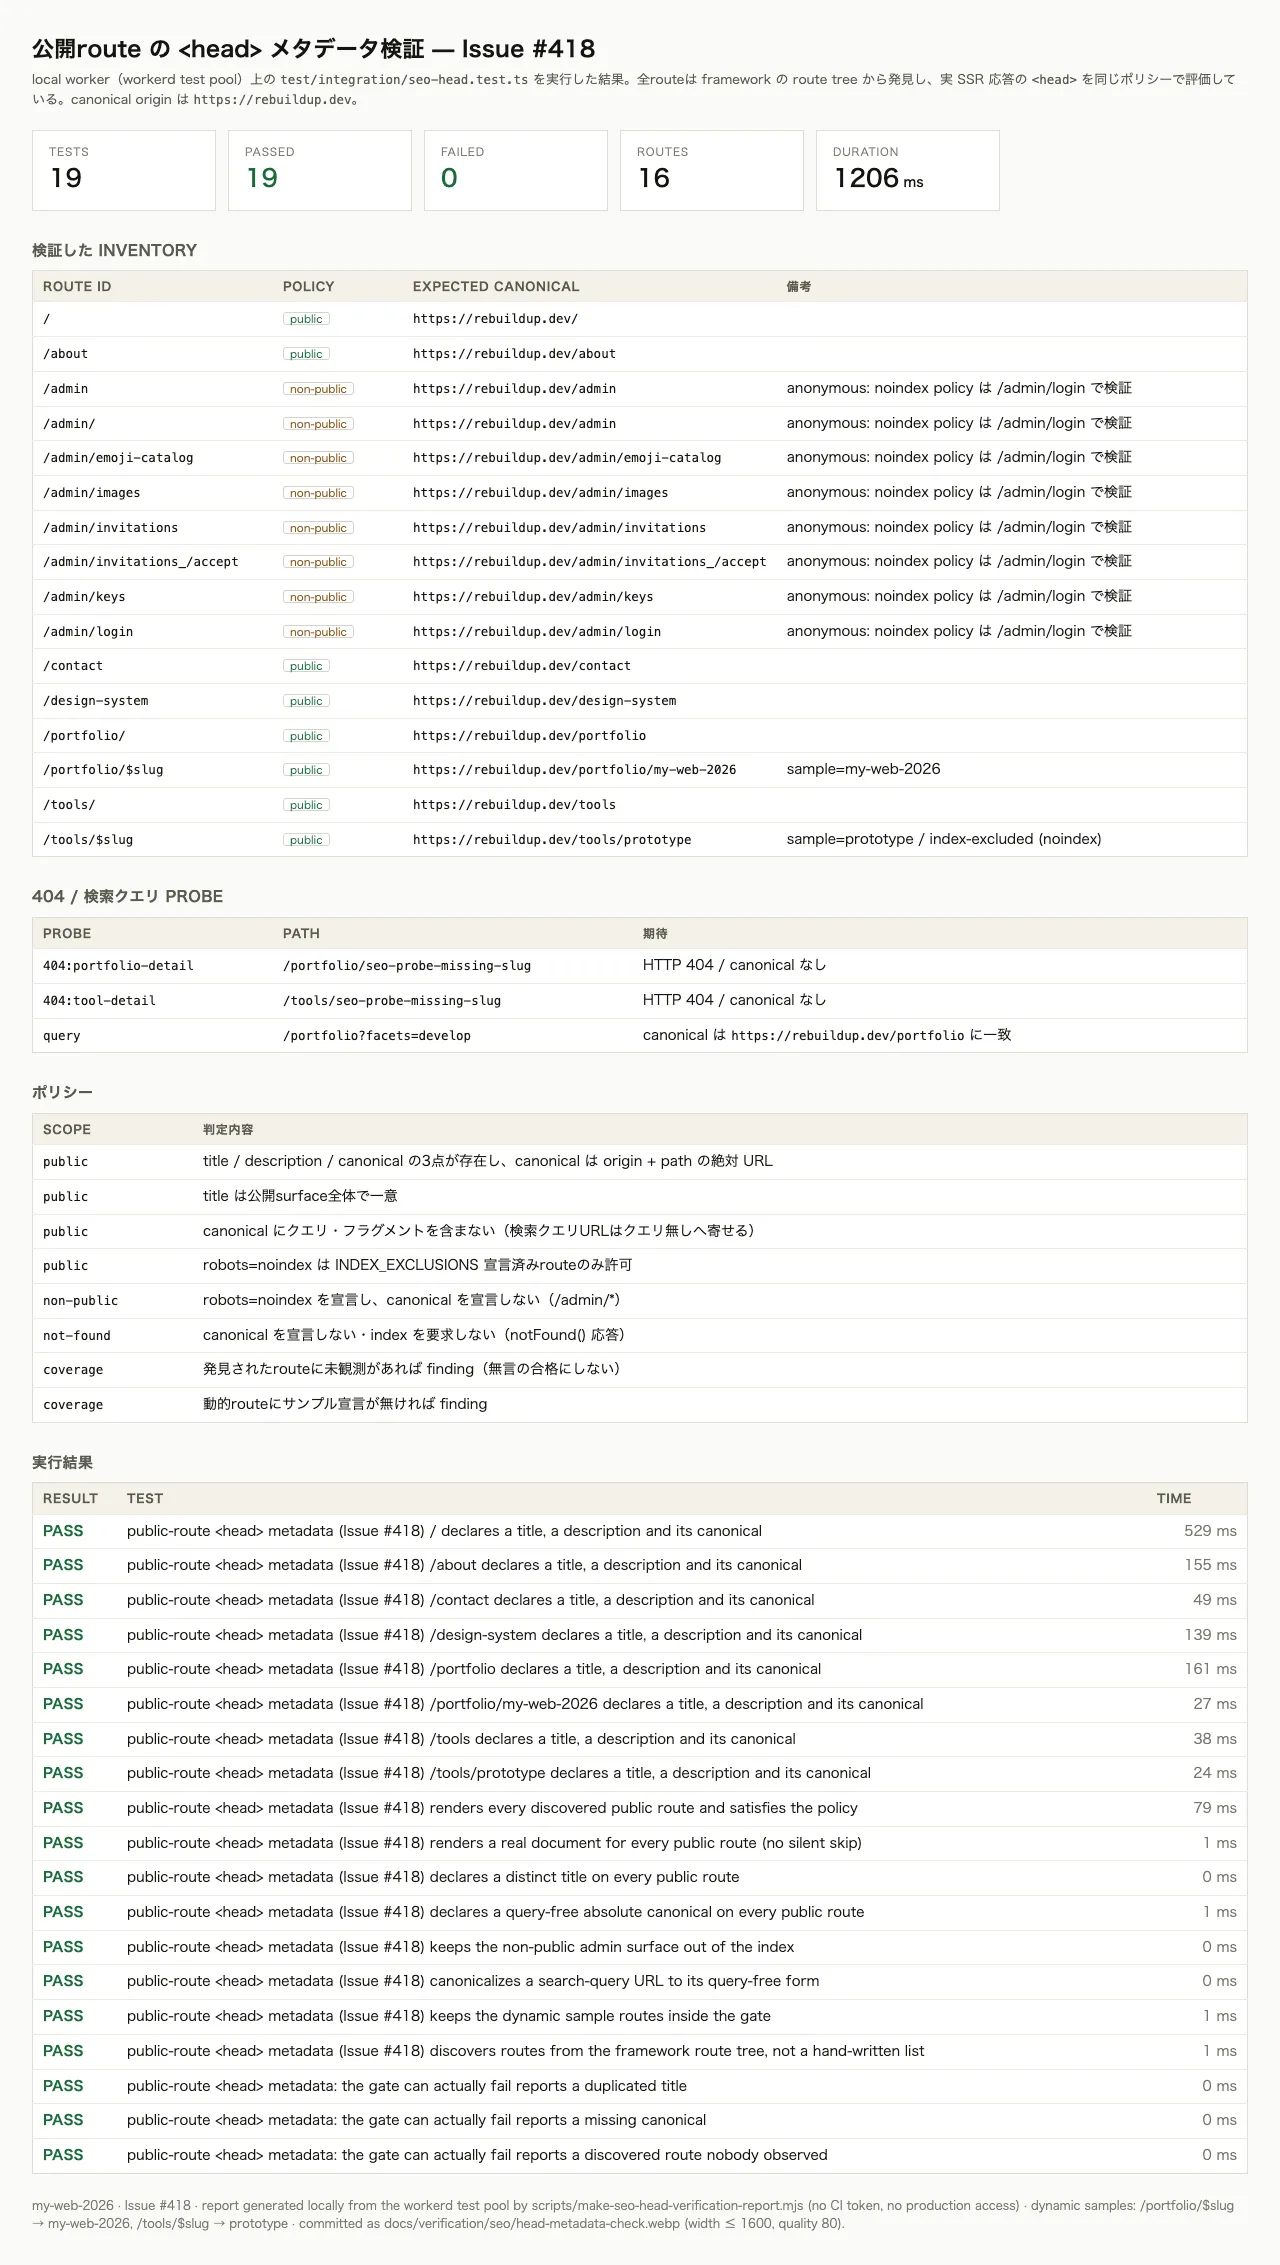
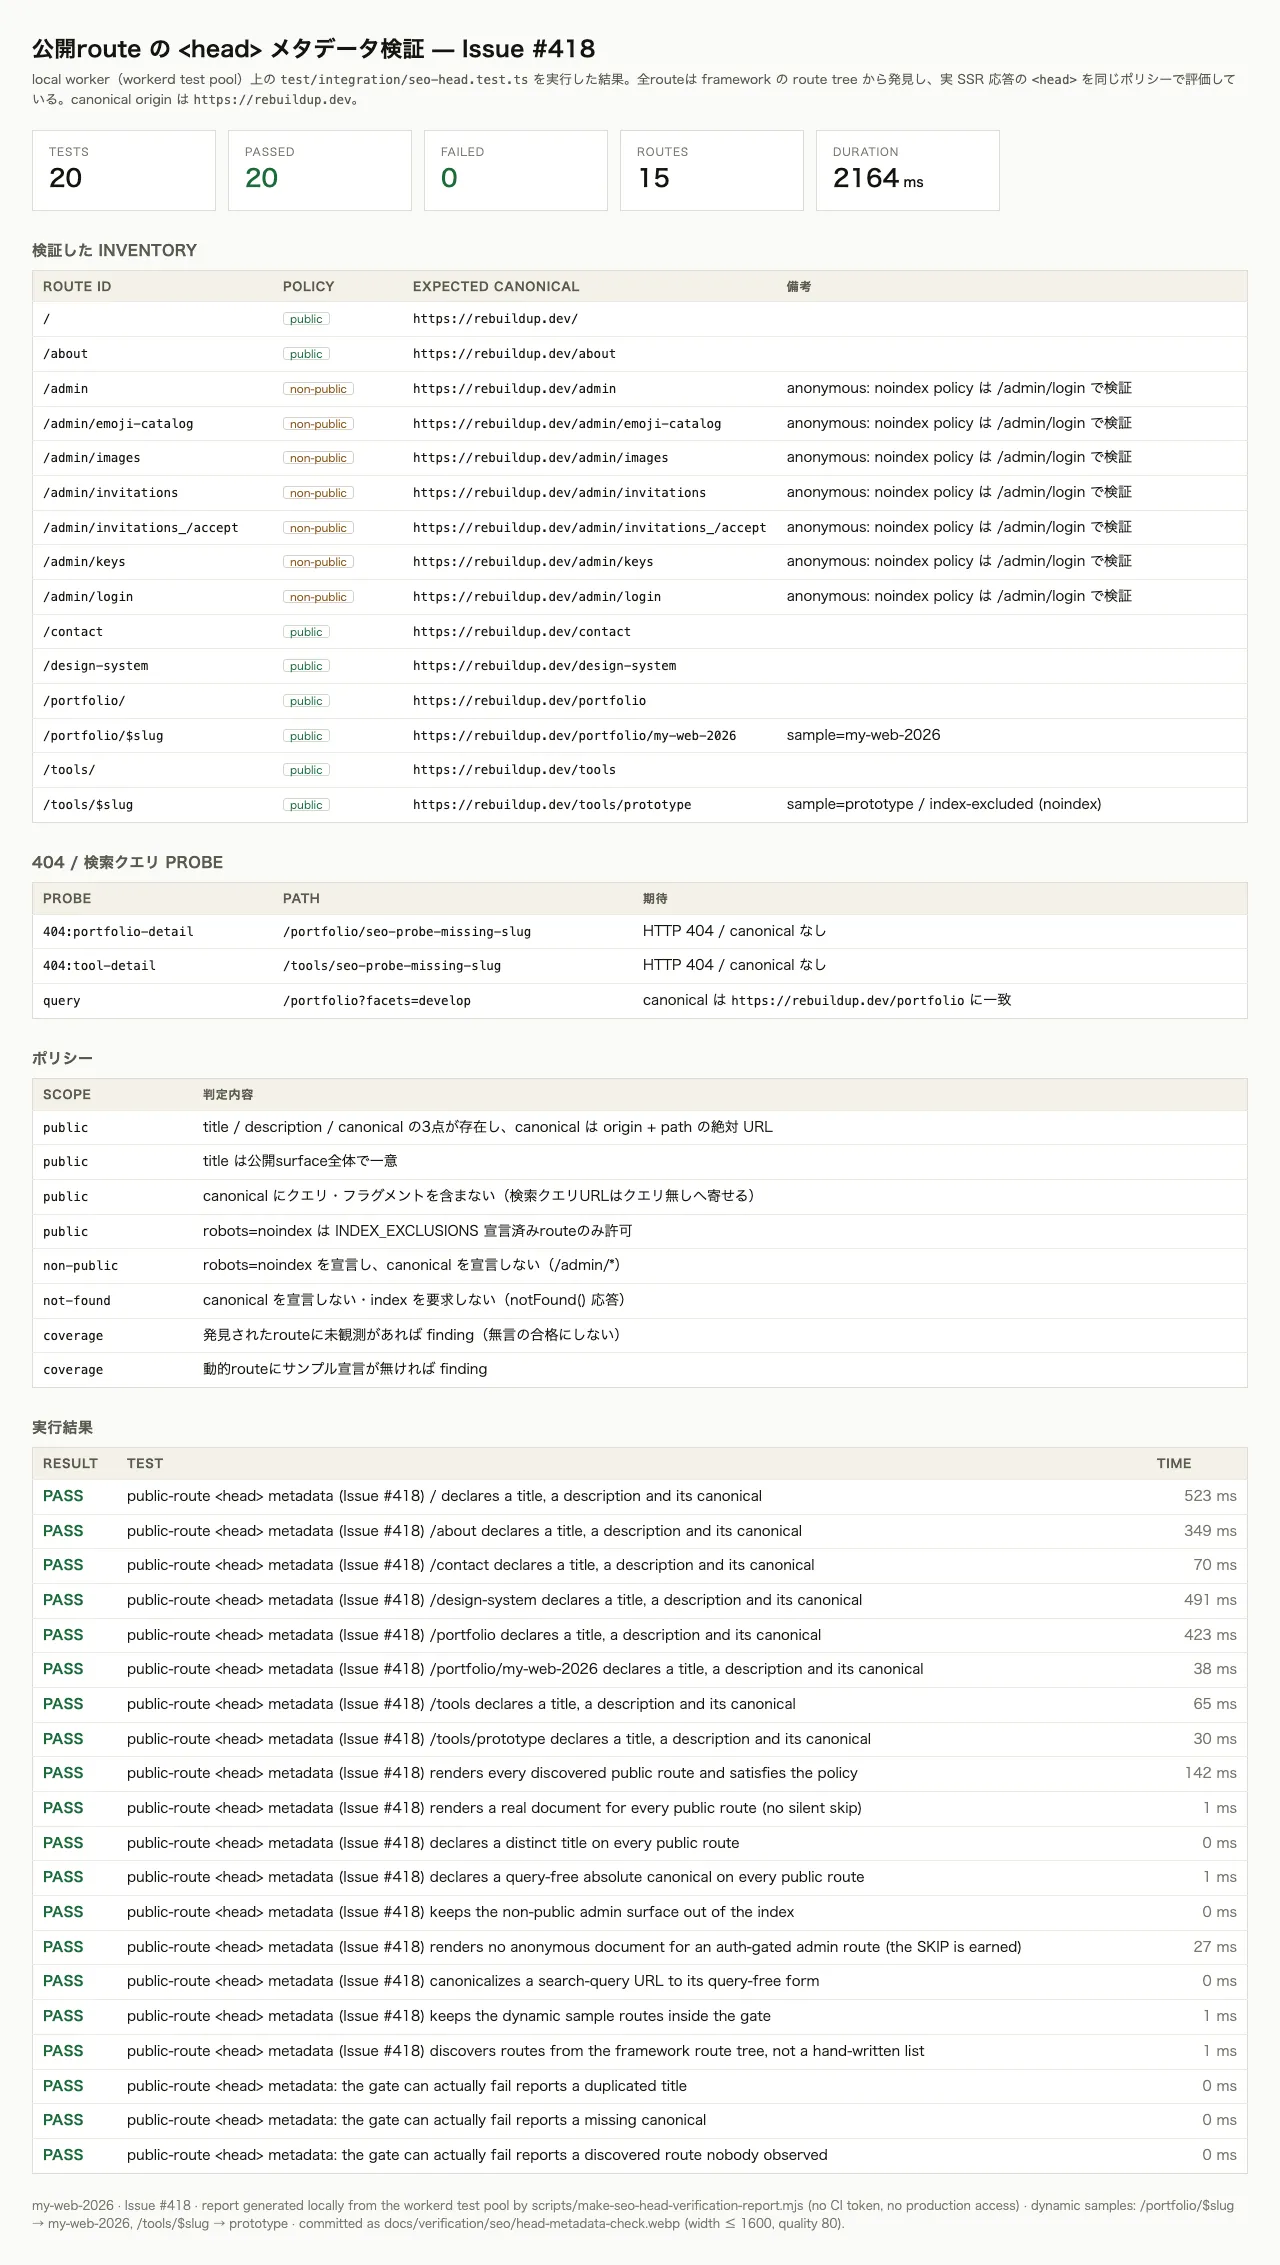
fix(seo): fail the head gate on an unfetched route or probe (#418)
A 404 probe whose request never completed was reported as PASS: the
not-found branch read `status !== null && status !== 404`, so a fetch
error short-circuited the only status check the row had, and the text
report omitted the `status` line entirely. An operator running
`--live` against an origin where only the two 404 probes fail to
resolve read two green "the 404 policy is fine" rows that were never
tested.

- `evaluateObservation` now reports an absent status on a not-found
  probe as `not-found.not-404` ("received no response"), so a probe
  that could not be fetched is a FAIL row, not a silent pass.
- A request that errored is `observation.request-failed` on EVERY
  surface, evaluated by the engine instead of being attached to the
  observation and then overwritten by the per-row evaluator (that
  attachment was dead code, and it misattributed a network error as
  three metadata defects). The no-op re-scan loop in `main()` is
  removed, so the row verdicts, the findings list and the exit code
  are one list by construction.
- `renderTextReport` states `(not fetched)` instead of dropping the
  status line, matching the HTML report.
- The inventory keeps one entry per normalized URL: an index route
  and the layout route beside it (`/admin/` + `/admin`) answer the
  same document, so both were listed and checked twice.
- `summarizeHead` documents — and the unit tests pin — that links are
  flat-mapped root-first by the router while meta dedupes
[…]

diff --git a/test/integration/seo-head.test.ts b/test/integration/seo-head.test.ts
@@ -271,12 +271,15 @@ const inventory = buildInventory(
 /**
  * Every discovered route, observed.
  *
- * The admin children other than `/admin/login` answer 307 for an
- * anonymous request — there is no document to evaluate — so they are
- * observed as explicitly SKIPPED rows. They are still in the
- * inventory, so a route disappearing from the admin surface is still
- * a discovery event, and their noindex policy is asserted through
- * the layout head every admin child inherits.
+ * The admin children other than `/admin/login` render no document for
+ * an anonymous request — the auth gate answers 307, and
+ * `/admin/invitations/accept` rejects a token-less request before
+ * rendering — so they are observed as explicitly SKIPPED rows. They
+ * are still in the inventory, so a route disappearing from the admin
+ * surface is still a discovery event, and their noindex policy is
+ * asserted through the layout head every admin child inherits. The
+ * assumption that earns each SKIP is asserted by the case "renders no
+ * anonymous document for an auth-gated admin route".
  */
 async function observeInventory(): Promise<Observed[]> {
 	const observations: Observed[] = [];
@@ -291,7 +294,7 @@ async function observeInventory(): Promise<Observed[]> {
 				tags: [],
 				head: summarizeHead([]),
 				skipped: true,
-				note: `anonymous request is auth-gated; the noindex policy is asserted on ${NON_PUBLIC_SAMPLE_PATH}`,
+				note: `anonymous request renders no admin document (auth-gated, or rejected before rendering); the noindex policy is asserted on ${NON_PUBLIC_SAMPLE_PATH}`,
 			});
 			continue;
 		}
@@ -346,7 +349,6 @@ async function observeInventory(): Promise<Observed[]> {
 }
 
 const PUBLIC_ROUTES = inventory.filter((entry) => entry.kind === 'public');
-const OBSERVED_TITLES = new Map<string, string[]>();
 
 describe('public-route <head> metadata (Issue #418)', () => {
 	// One case per discovered public route. A route-level failure then
@@ -360,12 +362,10 @@ describe('public-route <head> metadata (Issue #418)', () => {
 			expect(head.title, `${entry.path} title`).toBeTruthy();
 			expect(head.description, `${entry.path} description`).toBeTruthy();
 			expect(head.canonical, `${entry.path} canonical`).toBe(entry.expectedCanonical);
-
-			// Titles are unique across the public surface. Recorded here
-			// (and asserted in aggregate below) so a duplicate is
-			// reported against both routes, not just the later one.
-			const key = (head.title ?? '').toLowerCase();
-			OBSERVED_TITLES.set(key, [...(OBSERVED_TITLES.get(key) ?? []), entry.path]);
+			// Uniqueness across the public surface is asserted in
+			// aggregate by the case below ("declares a distinct title
+			// on every public route"), which reports a duplicate
+			// against BOTH routes instead of only the later one.
 		});
 	}
 
@@ -422,6 +422,30 @@ describe('public-route <head> metadata (Issue #418)', () => {
 		const { head } = await observe(NON_PUBLIC_SAMPLE_PATH);
 		expect(head.robots ?? '').toContain('noindex');
 		expect(head.canonical).toBeNull();
+	});
+
+	it('renders no anonymous document for an auth-gated admin route (the SKIP is earned)', async () => {
+		// A SKIP row is only justified while the route has no document
+		// to evaluate. If an admin route ever answered an anonymous
+		// request with a 200 document it would be indexable and would
+		// leave the gate without anybody noticing, so the assumption
+		// behind every admin SKIP is asserted here: no 200 document.
+		//
+		// Two shapes satisfy it today: the auth gate answers 307, and
+		// `/admin/invitations/accept` — an intentionally anonymous
+		// landing page — rejects a request without its required
+		// `token` search param before rendering anything (500). The
+		// gate holds no token, and the document it renders with one
+		// inherits the layout's `noindex`, which is what `/admin/login`
+		// asserts.
+		const gated = inventory.filter(
+			(entry) => entry.kind === 'non-public' && entry.path !== NON_PUBLIC_SAMPLE_PATH,
+		);
+		expect(gated.length).toBeGreaterThan(0);
+		for (const entry of gated) {
+			const { status } = await observe(entry.path);
+			expect(status, `${entry.path} answered a document to an anonymous request`).not.toBe(200);
+		}
 	});
 
 	it('canonicalizes a search-query URL to its query-free form', async () => {

diff --git a/docs/development.md b/docs/development.md
@@ -364,8 +364,12 @@ pnpm run verify:seo-head-screenshot
 The policy lives in `scripts/seo-head-contract.mjs`; the CI test and
 the `--live` CLI are two front-ends over that one engine. The route
 inventory is the framework's own route tree, so a new route without
-head metadata fails the gate instead of quietly passing. Details and
-the last report are in `docs/verification/seo/head-metadata-check.md`.
+description / canonical metadata fails the gate instead of quietly
+passing (the root layout's fallback title means a route that forgot
+its own title is caught as a duplicate title, not as a missing one).
+A request that errored is a finding too — an unfetched route is never
+a pass. Details and the last report are in
+`docs/verification/seo/head-metadata-check.md`.
 
 ## Generated artefacts
 
